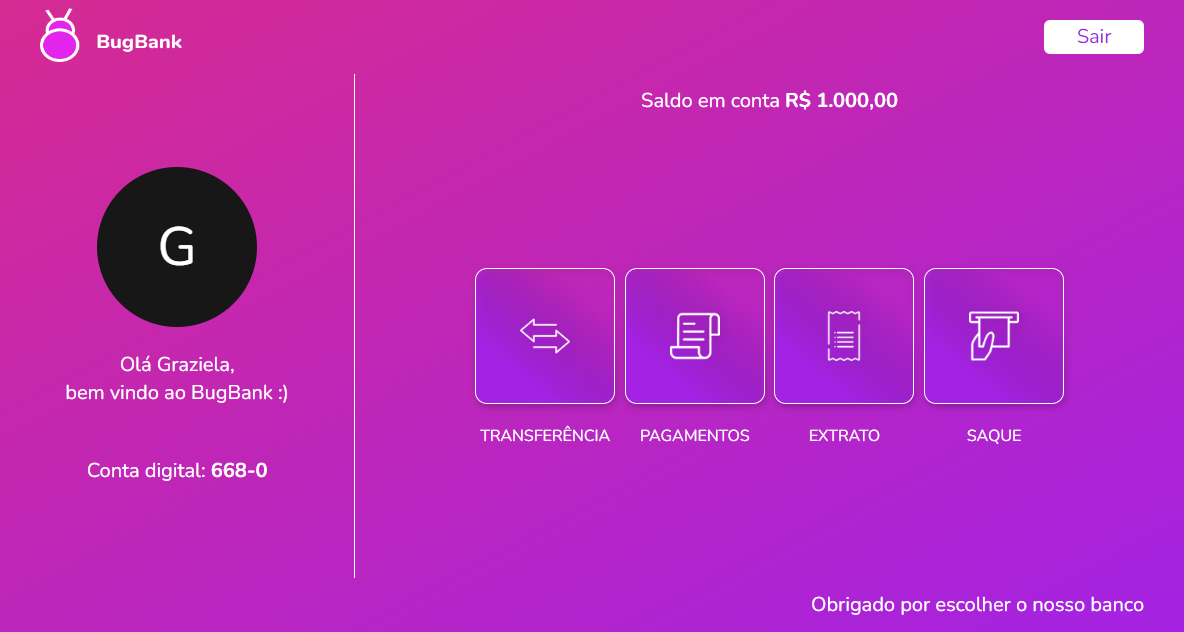
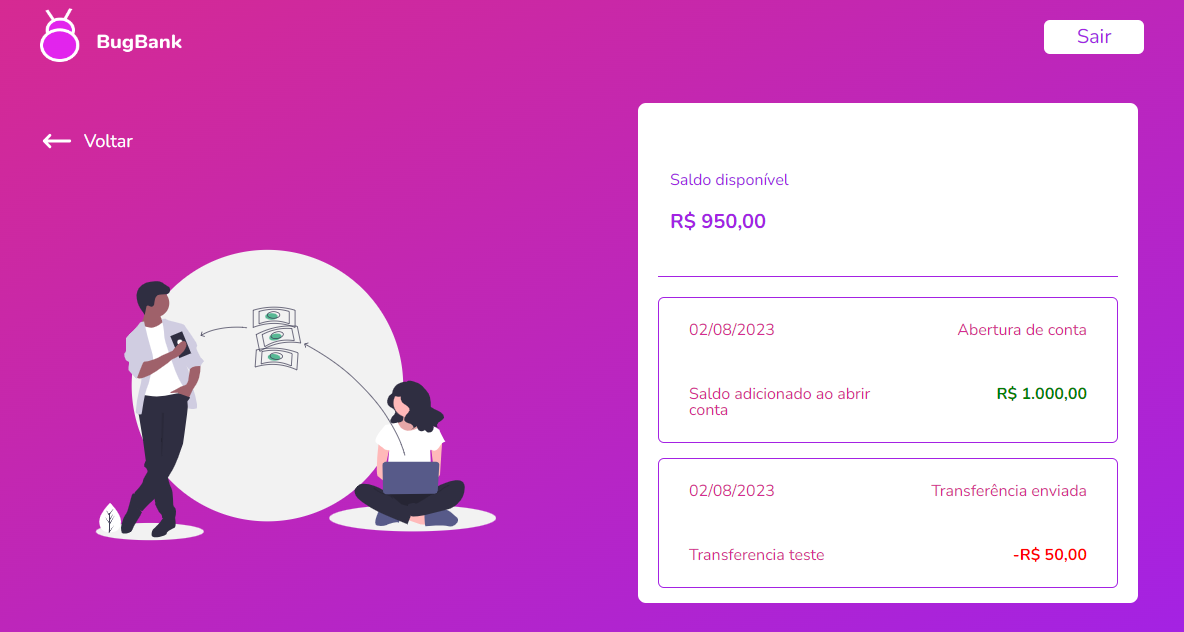
Add files via upload
Automação final do site focado na transferencia entre contas.

diff --git a/src/main/java/br/rs/gbrolese/page/RegistrarPage.java b/src/main/java/br/rs/gbrolese/page/RegistrarPage.java
@@ -1,7 +1,6 @@
 package br.rs.gbrolese.page;
 
-import java.util.regex.Pattern;
-
+import org.junit.Assert;
 import org.openqa.selenium.By;
 
 import br.rs.gbrolese.core.BasePage;
@@ -10,29 +9,44 @@ public class RegistrarPage extends BasePage {
 	
 	BasePage basePage = new BasePage();
 	LoginPage login = new LoginPage();
+	MenuPage menu = new MenuPage();
 	
 	public void acessarRegistraConta() {
 		clicarBotaoPorTexto("Registrar");
 	}
 
-	public void registrarConta(String email, String name,String senha,String conf_senha) throws InterruptedException {
+	public String registrarConta(String email, String name,String senha,String conf_senha) throws InterruptedException {
 	
 			escreverByCSS(".card__register [name=email]", email);
 			escreverByCSS(".card__register [name=name]", name);
 			escreverByCSS(".card__register [name=password]", senha);
 			escreverByCSS(".card__register [name=passwordConfirmation]", conf_senha);
-			Thread.sleep(500);
-			clicaBotaoByCSS(".card__register [id=toggleAddBalance]");
-			Thread.sleep(500);
-			clicarBotaoPorTexto("Cadastrar");
-			Thread.sleep(500);
-	    //	String mensagemSucesso = contaPage.obterMensagemSucesso();
-		//	String accountNumber = mensagemSucesso.trim().split(" ")[2];
-		//	System.out.println(mensagemSucesso);
-			clicarBotao(By.cssSelector("a#btnCloseModal"));;
-			login.logar(email, senha);
-			String accountNumber = basePage.obterTextoByXPath("//*[@id=\"textAccountNumber\"]/span");
+			Thread.sleep(1000);
 			
+			if (!basePage.checarComSaldo()) {
+				clicaBotaoByCSS(".card__register [id=toggleAddBalance]");
+			}
+			
+			Thread.sleep(1000);
+			clicarBotaoPorTexto("Cadastrar");
+			Thread.sleep(1000);
+			
+	        //verifica mensagem
+			String mensagemSucesso = obterTexto(By.cssSelector("p#modalText"));
+			Assert.assertTrue(mensagemSucesso.contains("foi criada com sucesso"));
+			
+			//fecha mensagem
+			clicarBotao(By.cssSelector("a#btnCloseModal"));
+			Thread.sleep(1000);
+			
+			//logar para armazenar o número da conta. 
+			login.logar(email, senha);
+			Thread.sleep(1000);
+			String accountNumber = basePage.obterTextoByXPath("//*[@id=\"textAccountNumber\"]/span");
+			Thread.sleep(1000);                               
+			menu.sairButton();
+			
+			return accountNumber;
 			
 		}
 	}

diff --git a/src/main/java/br/rs/gbrolese/tests/CT01_TransferenciaEntreContas.java b/src/main/java/br/rs/gbrolese/tests/CT01_TransferenciaEntreContas.java
@@ -7,6 +7,7 @@ import br.rs.gbrolese.core.BaseTest;
 import br.rs.gbrolese.page.LoginPage;
 import br.rs.gbrolese.page.MenuPage;
 import br.rs.gbrolese.page.RegistrarPage;
+import br.rs.gbrolese.page.ExtratoPage;
 import br.rs.gbrolese.page.TransferirPage;
 
 public class CT01_TransferenciaEntreContas extends BaseTest {
@@ -16,30 +17,35 @@ public class CT01_TransferenciaEntreContas extends BaseTest {
 	LoginPage login = new LoginPage();
 	MenuPage menu = new MenuPage();
 	TransferirPage transferir = new TransferirPage();
-	
-	
+	ExtratoPage saldo = new ExtratoPage();
 	
 	@Test
 	public void testCompleto() throws InterruptedException {
 		login.acessarTelaInicial();
+				
 		//registro da Conta 1
 		registrar.acessarRegistraConta();
-		registrar.registrarConta("teste1@gmail.com", "Graziela", "12345", "12345");
-		Thread.sleep(5000);
+		String conta1 = registrar.registrarConta("teste1@gmail.com", "Graziela", "12345", "12345");
+		
 		
 		//registro da conta 2
 		registrar.acessarRegistraConta();
-		registrar.registrarConta("teste2@gmail.com", "Luciana", "12345", "12345");
+		String conta2 = registrar.registrarConta("teste2@gmail.com", "Luciana", "12345", "12345");
 		
-		//Logar
+		
+		//Logar com a conta 2
 		login.logar("teste2@gmail.com", "12345");
 	
-		//Acessar Menu Transferir
-		menu.acessarTransferencia();
 		
 		//Transferir
+		menu.acessarTransferencia();
+		transferir.transferir(conta1, "50", "Transferencia teste");	
+		menu.voltarButton();
 		
-		
+		//Verificar Saldo
+		menu.acessarExtrato();
+		float saldoFinal = saldo.extrato();
+		Assert.assertEquals(950.0f,saldoFinal,0.0001);
 		
 		
 		

diff --git a/src/main/java/br/rs/gbrolese/core/BasePage.java b/src/main/java/br/rs/gbrolese/core/BasePage.java
@@ -19,24 +19,14 @@ public class BasePage {
 		escrever(By.cssSelector(css_selector), texto);
 	}
 	
-	public String obterValorCampo(String id_campo) {
-		return getDriver().findElement(By.id(id_campo)).getAttribute("value");
-	}
-	
 	/********* Botoes ************/
 	
 
-	public void clicarCheck(String id) {
-		getDriver().findElement(By.id(id)).click();
-	}
-	public boolean isCheckMarcado(String id){
-		return getDriver().findElement(By.id(id)).isSelected();
+	public void clicarBotao(By by) {
+		getDriver().findElement((by)).click();
 	}
 	public void clicarBotao(String id) {
 		clicarBotao(By.id(id));
-	}
-	public void clicarBotao(By by) {
-		getDriver().findElement((by)).click();
 	}
 	public void clicaBotaoByCSS(String css) {
 		getDriver().findElement(By.cssSelector(css)).click();
@@ -44,16 +34,19 @@ public class BasePage {
 	public void clicarBotaoPorTexto(String texto){
 		clicarBotao(By.xpath("//button[.='"+texto+"']"));
 	}
-	public boolean isRadioMarcado(String id) {
-		return getDriver().findElement(By.id((id))).isSelected();
-		
-	}
-	/*********Links ************/
-	public void clicarLink(String id) {
-		getDriver().findElement(By.linkText(id)).click();
+	public boolean checarComSaldo() {
+		WebElement toggleElement = getDriver().findElement(By.xpath("//*[@id=\"toggleAddBalance\"]/parent::*"));
+		String resultado = toggleElement.getAttribute("class");
+		if (resultado.contains("hsmFIT")) {
+			return true;
+		}
+		else {
+			return false;
+		}
 	}
 	
 	/********* Obter texto  ************/
+	
 	public String obterTexto(By by) {
 		return getDriver().findElement((by)).getText();
 	}

diff --git a/src/main/java/br/rs/gbrolese/page/TransferirPage.java b/src/main/java/br/rs/gbrolese/page/TransferirPage.java
@@ -9,14 +9,22 @@ public class TransferirPage extends BasePage {
 	
 	
 	
-	public void transferir(String account, String digit, String value, String description) {
-		escrever(By.cssSelector("input[name=\'accountNumber\']"), account);
-		escrever(By.cssSelector("input[name=\'digit\']"), digit);
+	public void transferir(String account, String value, String description) throws InterruptedException {
+		
+		String[] accountParts = account.split("-");
+		Thread.sleep(1000);
+		escrever(By.cssSelector("input[name=\'accountNumber\']"), accountParts[0]);
+		escrever(By.cssSelector("input[name=\'digit\']"), accountParts[1]);
 		escrever(By.cssSelector("input[name=\'transferValue\']"), value);
 		escrever(By.cssSelector("input[name=\'description\']"), description);
 		clicarBotao(By.cssSelector("button[type=\'submit\']"));
+		Thread.sleep(1000);
+		
+		System.out.println(obterTexto(By.cssSelector("p#modalText")));
+		Thread.sleep(1000);
 		Assert.assertEquals("Transferencia realizada com sucesso", obterTexto(By.cssSelector("p#modalText")));
 		clicarBotao("btnCloseModal");
+		Thread.sleep(1000);
 	}
 	
 

diff --git a/src/main/java/br/rs/gbrolese/core/DriverFactory.java b/src/main/java/br/rs/gbrolese/core/DriverFactory.java
@@ -1,9 +1,8 @@
 package br.rs.gbrolese.core;
+
 import org.openqa.selenium.Dimension;
-import java.util.concurrent.TimeUnit;
 import org.openqa.selenium.WebDriver;
 import org.openqa.selenium.chrome.ChromeDriver;
-import org.openqa.selenium.edge.EdgeDriver;
 import org.openqa.selenium.firefox.FirefoxDriver;
 
 public class DriverFactory {
@@ -19,9 +18,7 @@ public class DriverFactory {
 				case CHROME: driver = new ChromeDriver(); break;
 			}
 			driver.manage().window().setSize(new Dimension(1200, 765));	
-			// Definir um tempo de espera implícito para aguardar elementos
-	        driver.manage().timeouts().implicitlyWait(10, TimeUnit.SECONDS);
-	
+			
 		}
 		return driver;
 	}

diff --git a/src/main/java/br/rs/gbrolese/page/ExtratoPage.java b/src/main/java/br/rs/gbrolese/page/ExtratoPage.java
@@ -1,0 +1,21 @@
+package br.rs.gbrolese.page;
+
+import br.rs.gbrolese.core.BasePage;
+
+public class ExtratoPage extends BasePage {
+
+	
+	public float extrato() throws InterruptedException {
+		
+		Thread.sleep(1000);
+		String resultadoExtrato = obterTexto("textBalanceAvailable");
+		Thread.sleep(1000);
+		String valorSaldo = resultadoExtrato.split(" ")[1].replace(",",".");
+		Thread.sleep(1000);
+		float resultado = Float.parseFloat(valorSaldo);
+		Thread.sleep(1000);
+		return resultado;
+		
+	}
+
+}

diff --git a/src/main/java/br/rs/gbrolese/page/LoginPage.java b/src/main/java/br/rs/gbrolese/page/LoginPage.java
@@ -8,8 +8,7 @@ public class LoginPage extends BasePage {
 	
 	public void acessarTelaInicial() {
 		DriverFactory.getDriver().get("https://bugbank.netlify.app//");
-	}
-	
+	}	
 	public void setEmail(String email) {
 		escrever("email", email);
 	}
@@ -18,8 +17,7 @@ public class LoginPage extends BasePage {
 	}
 	public void entrar(){
 		clicarBotaoPorTexto("Acessar");
-	}
-	
+	}	
 	public void logar(String email, String senha) {
 		setEmail(email);
 		setSenha(senha);

diff --git a/src/main/java/br/rs/gbrolese/page/MenuPage.java b/src/main/java/br/rs/gbrolese/page/MenuPage.java
@@ -20,6 +20,9 @@ public class MenuPage extends BasePage {
 	public void voltarButton() {
 		clicarBotao("btnBack");
 	}
+	public void sairButton() {
+		clicarBotao("btnExit");
+	}
 	
 }
 

diff --git a/src/main/java/br/rs/gbrolese/core/BaseTest.java b/src/main/java/br/rs/gbrolese/core/BaseTest.java
@@ -29,7 +29,6 @@ public class BaseTest {
 	@Before
 	public void inicializa() {
 		page.acessarTelaInicial();
-	//	page.logar("grazi.bro@gmail.com", "grazi123");
 	}
 	
 	@After
